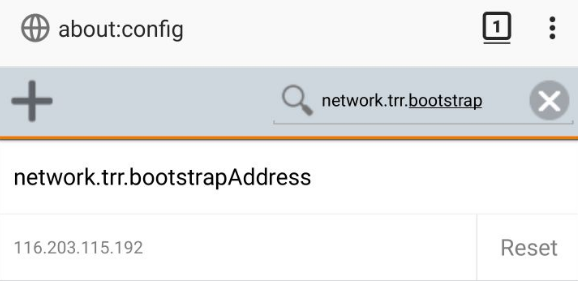
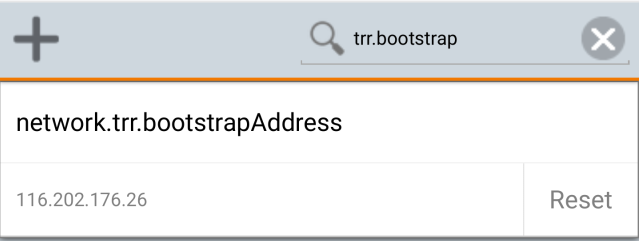
Picture changes and small post corrections corrections

diff --git a/posts/191221-libredns-mobile.md b/posts/191221-libredns-mobile.md
@@ -25,10 +25,10 @@ In this article, we provide steps to do that with the help of Firefox and LibreD
 ![mobile2](mobile2.png)
 
 *  If you choose **3** in `network.trr.mode` you also need to add the following preference in `about:config`:
-    Search for `network.trr.bootstrapAddress` in the address bar and change the value to `116.203.115.192` which is the IP address of LibreDNS.
+    Search for `network.trr.bootstrapAddress` in the address bar and change the value to `116.202.176.26` which is the IP address of LibreDNS.
 
 ![mobile3](mobile3.png)
 
-*  Test the connection with <http://dnsleaktest.com/>, you should only get the following results:
+*  Test the connection with <https://dnsleaktest.com/>, you should only get the following results:
 
 ![mobile4](mobile4.png)
